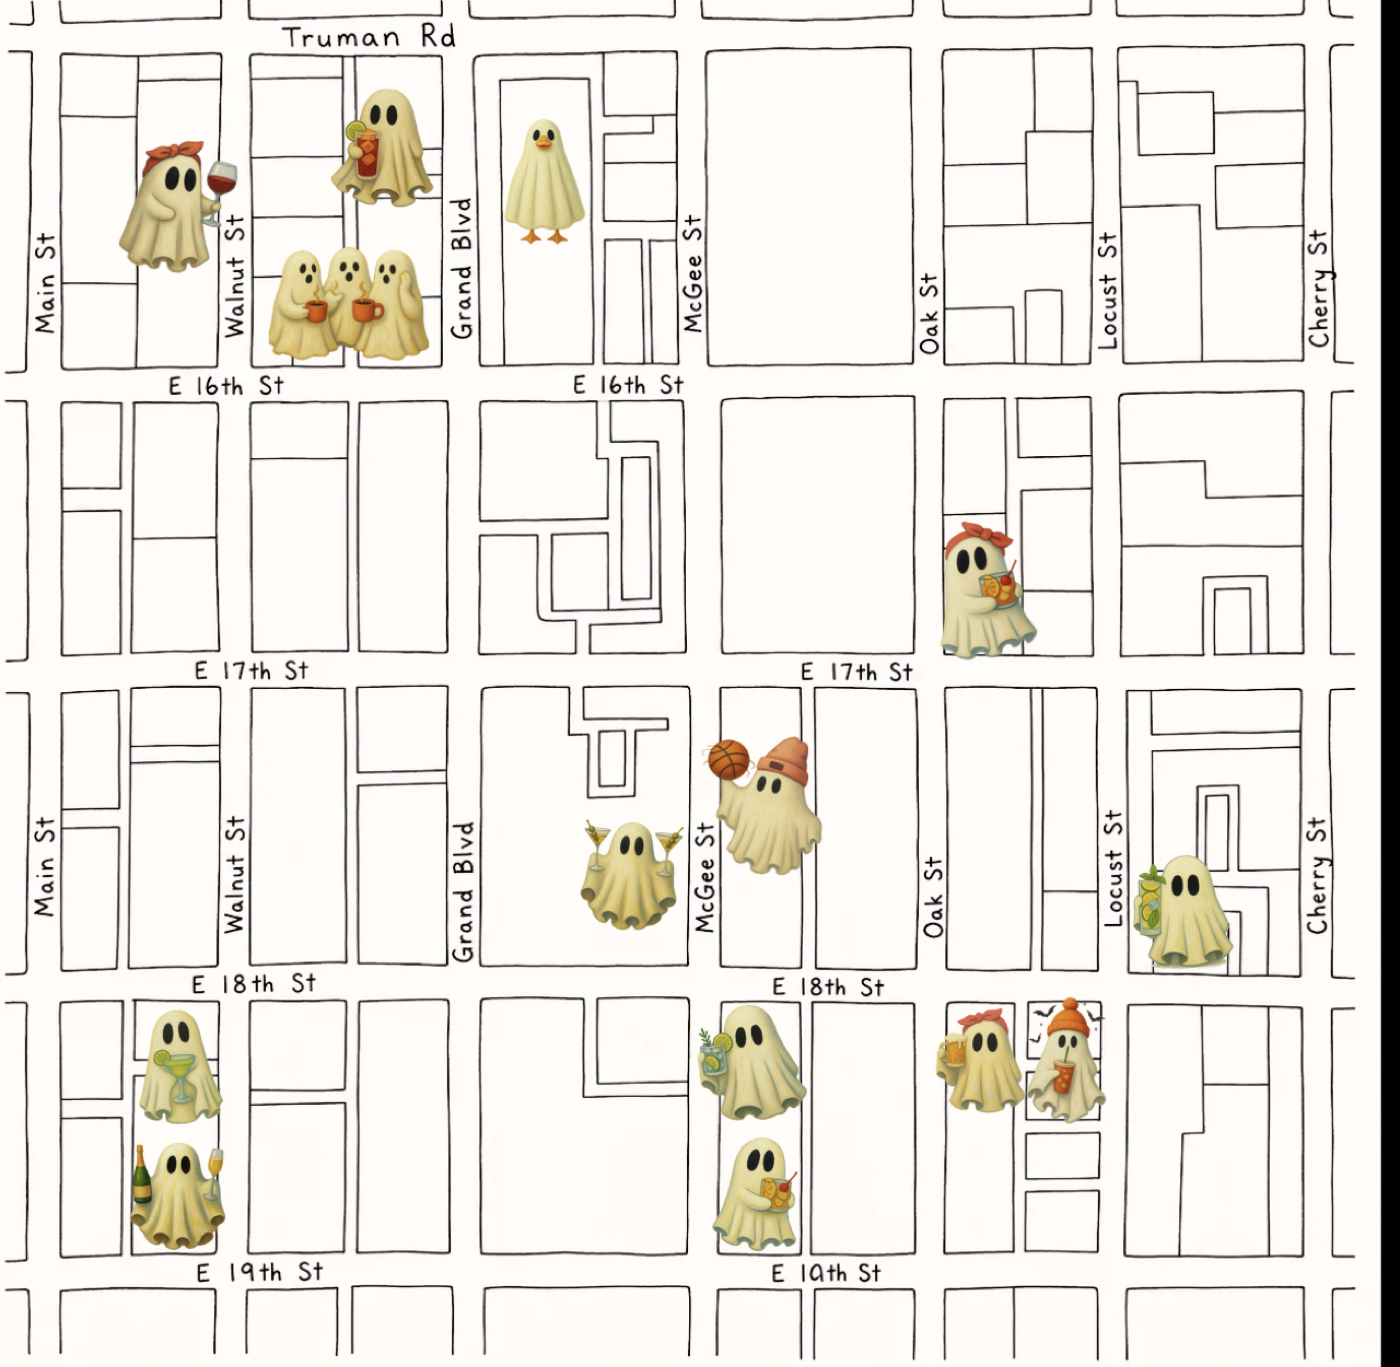
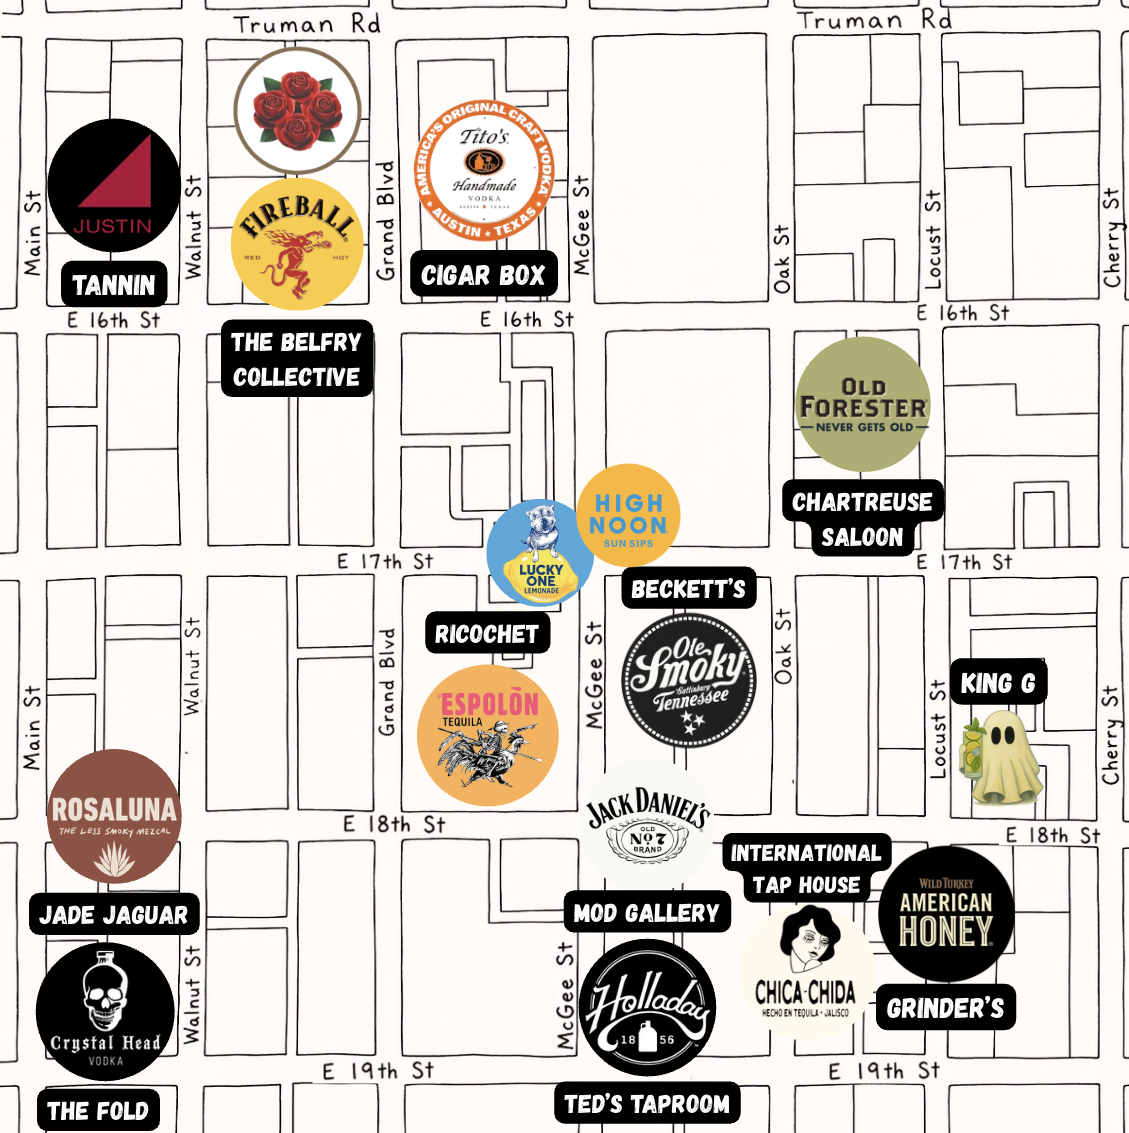
The real map: all 13 spots named (v1.5.7)
Amy's full map replaces the 24 Sep teaser. Her file carries a solid
black frame (10/15/15/17px), cropped off so the map meets the page's
1px border directly. 1129x1133 native, no upscale; map.webp 167 KB at
q90 via tools/make-webp.py, which rebuilt the logo and icons byte for
byte. Width and height attributes match the new ratio, and the alt text
names every spot.

Also fixes a 22px horizontal scroll at 768px: the tablet rule's
max-width: 46rem overrode the global 100%. Now min(100%, 46rem).

diff --git a/index.html b/index.html
@@ -17,7 +17,7 @@
 
       @project      fallcrawlkc
       @file         index.html
-      @version      1.5.6
+      @version      1.5.7
       @updated      2026-09-29
       @client       East Crossroads Fall Crawl - East Crossroads, Kansas City, MO
       @url          https://fallcrawlkc.com/
@@ -63,7 +63,7 @@
                     system stack.
 
     ============================================================================
-      Fall Crawl v1.5.6  ·  index.html  ·  mediaBrilliance
+      Fall Crawl v1.5.7  ·  index.html  ·  mediaBrilliance
     ============================================================================
     -->
 
@@ -192,8 +192,8 @@
       <section class="band" id="map">
         <h2 class="headline" data-headline></h2>
         <p class="lede" data-blurb></p>
-        <img class="map-img" src="images/map.webp" width="1400" height="1367" loading="lazy" decoding="async"
-             alt="Hand-drawn map of the East Crossroads showing participating spots between Walnut Street and Locust Street, Truman Road and 19th Street." />
+        <img class="map-img" src="images/map.webp" width="1129" height="1133" loading="lazy" decoding="async"
+             alt="Hand-drawn map of the East Crossroads, Main Street to Cherry Street and Truman Road to 19th Street, naming the 13 participating spots, each with a featured spirit: Tannin, The Belfry Collective, Cigar Box, Chartreuse Saloon, Beckett's, Ricochet, King G, Jade Jaguar, International Tap House, Mod Gallery, Grinder's, The Fold and Ted's Taproom." />
       </section>
 
       <!-- ===== what to expect ===== -->

diff --git a/style.css b/style.css
@@ -10,7 +10,7 @@
 
     @project      fallcrawlkc
     @file         style.css
-    @version      1.5.6
+    @version      1.5.7
     @updated      2026-09-29
     @client       East Crossroads Fall Crawl - East Crossroads, Kansas City, MO
     @url          https://fallcrawlkc.com/
@@ -49,7 +49,7 @@
                   glyphs left by half the tracking.
 
   ============================================================================
-    Fall Crawl v1.5.6  ·  style.css  ·  mediaBrilliance
+    Fall Crawl v1.5.7  ·  style.css  ·  mediaBrilliance
   ============================================================================
 */
 
@@ -745,7 +745,7 @@ body::after {
   .title-short { display: none; }
   .title-full  { display: inline; }
   .band { padding-left: clamp(2rem, 7vw, 5rem); padding-right: clamp(2rem, 7vw, 5rem); }
-  .map-img { max-width: 46rem; margin-inline: auto; }
+  .map-img { max-width: min(100%, 46rem); margin-inline: auto; }
   .expect-list { grid-template-columns: repeat(3, 1fr); }
   .moon { width: 5.4rem; height: 5.4rem; }
   .fog-bank.is-thick { opacity: 1; }

diff --git a/js/crawl.js b/js/crawl.js
@@ -10,7 +10,7 @@
  *
  *   @project      fallcrawlkc
  *   @file         js/crawl.js
- *   @version      1.5.6
+ *   @version      1.5.7
  *   @updated      2026-09-29
  *   @client       East Crossroads Fall Crawl, Kansas City, MO
  *   @url          https://fallcrawlkc.com/
@@ -48,7 +48,7 @@
  *                 able to inject markup.
  *
  * ============================================================================
- *   Fall Crawl v1.5.6  ·  js/crawl.js  ·  mediaBrilliance
+ *   Fall Crawl v1.5.7  ·  js/crawl.js  ·  mediaBrilliance
  * ============================================================================
  */
 

diff --git a/tools/make-webp.py b/tools/make-webp.py
@@ -25,8 +25,8 @@
 
   The .png files beside them are SOURCES, not served assets. Nothing in the
   markup points at map.png or icons.png any more, so a visitor never
-  downloads them; they stay in the repo because map.png was processed from
-  the client's teaser by hand and is the only copy of that work.
+  downloads them; they stay in the repo as the sources of record. map.png is
+  the client's map with its black frame cropped off (see the README).
 
   logo.png is the exception and is still referenced: og:image and
   twitter:image keep pointing at it, because a share-card scraper is the one
@@ -35,7 +35,7 @@
 
   WHY THE SETTINGS DIFFER
 
-  map      Lossy. A hand-drawn map full of fine strokes, and at 1251 KB it
+  map      Lossy. A hand-drawn map full of fine strokes, and as a PNG it
            was two thirds of the whole site. Its alpha channel was fully
            opaque, so the mode drops to RGB before encoding.
   logo     Lossy. Lossless costs three times as much here for no visible

diff --git a/README.md b/README.md
@@ -75,7 +75,7 @@ Still missing its venue list, so the Spots section is absent by design.
 └── images/
     ├── logo.webp     # the lockup, as the page loads it
     ├── icons.webp    # free / 21+ / no wristbands / costumes strip
-    ├── map.webp      # teaser map, positions only, no names yet
+    ├── map.webp      # the map with all 13 spots named
     ├── og.png        # share card (og/twitter/JSON-LD), built by make-og.py
     ├── logo.png      # SOURCE, and a second JSON-LD image
     ├── icons.png     # SOURCE only, nothing links to it
@@ -86,8 +86,8 @@ Still missing its venue list, so the Spots section is absent by design.
 ```
 
 The `.png` files are sources, except `og.png` and `logo.png`, which the share-card
-scrapers fetch. `map.png` stays because it was processed from the client's teaser by
-hand and no command reproduces it.
+scrapers fetch. `map.png` is the client's map with its black frame cropped off, so
+it meets the page's own 1px border instead of a dead black band.
 
 ### Where the artwork comes from
 
@@ -98,7 +98,7 @@ re-derives it:
 |---|---|---|
 | `images/icons.png` | `Fall Crawl Icons.pdf` (22 Sep) | Re-rendered 22 Sep and byte-identical to the file on the site |
 | `images/logo.png` | `Fall Crawl The Pitch.png` | Cropped lockup |
-| `images/map.png` | `Fall Crawl Map 1 Teaser.png` | Processed, not the raw file (1400x1367 against her 1326x1300) |
+| `images/map.png` | `Fall Crawl Unoffical Map.png` (29 Sep; her spelling) | 1158x1168 with a solid black frame of 10/15/15/17px (left/top/right/bottom), cropped to the 1129x1133 interior. Replaced the 24 Sep teaser |
 | `images/*.webp` | the `.png` beside each | Built 24 Sep by `tools/make-webp.py`. Re-run it rather than converting by hand |
 | `images/mark.png`, `favicon.ico`, `apple-touch-icon.png`, `favicon-32.png` | `images/logo.png` | Built 22 Sep by `tools/make-icons.py`. Re-run it rather than re-cropping |
 
@@ -195,7 +195,7 @@ fog. The privacy page says so. If it fails, the sky stays clear.
       Held there deliberately until the content is in. Change the Squarespace A records to
       GitHub Pages (185.199.108-111.153) **first**, then add `CNAME` — never the reverse
 - [ ] Add venues to `data/crawl.js`. The Spots section is absent until then
-- [ ] Replace `images/map.png` with the full map once names are locked
+- [x] Replace `images/map.png` with the full map. Done 29 Sep from `Fall Crawl Unoffical Map.png`
 - [x] Remove `noindex` and the `robots.txt` disallow, across all three pages
 - [x] `favicon.ico`, `apple-touch-icon.png` and `favicon-32.png`, declared on
       all three pages. Built from the logo by `tools/make-icons.py`
@@ -209,7 +209,7 @@ fog. The privacy page says so. If it fails, the sky stays clear.
       Squarespace's "Coming Soon" page
 - [ ] Client asset fix: the pedicab promo reads "WINE & COCKAILS"
 - [ ] Gagalin font file from the client; headings use a fallback until then
-- [ ] `Fall Crawl Unofficial Map.png` from the client (not received)
+- [x] `Fall Crawl Unoffical Map.png` from the client (received 29 Sep)
 - [x] `showExamples: false`. Amy, 28 Sep: no made-up spots or specials, so
       nobody is disappointed when the real list lands. The wheel reads
       "Coming soon" until the first venue is added
